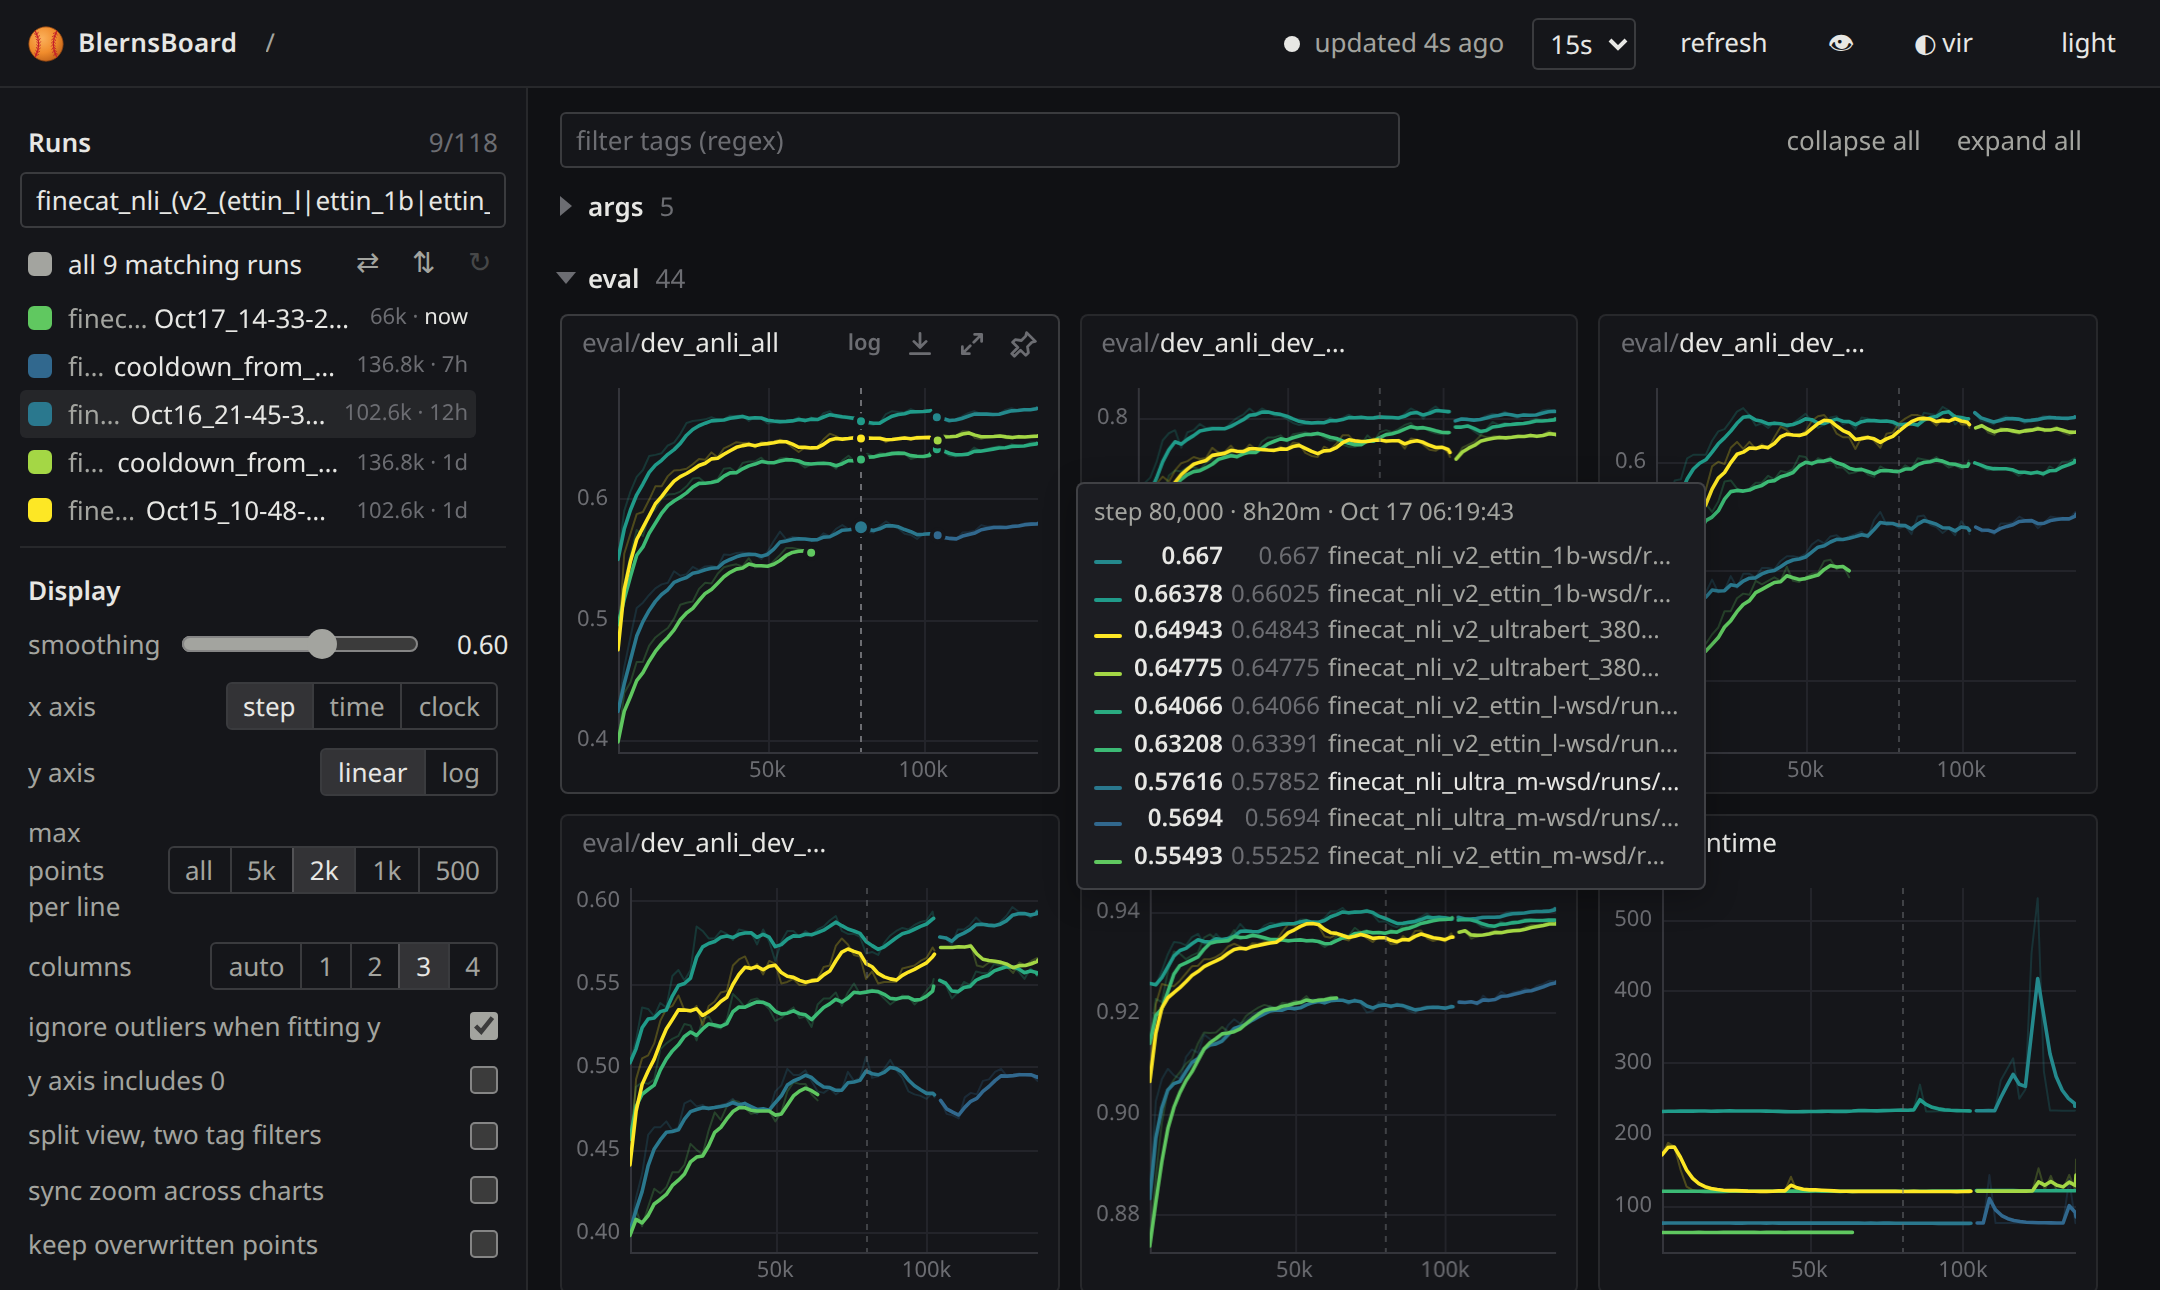
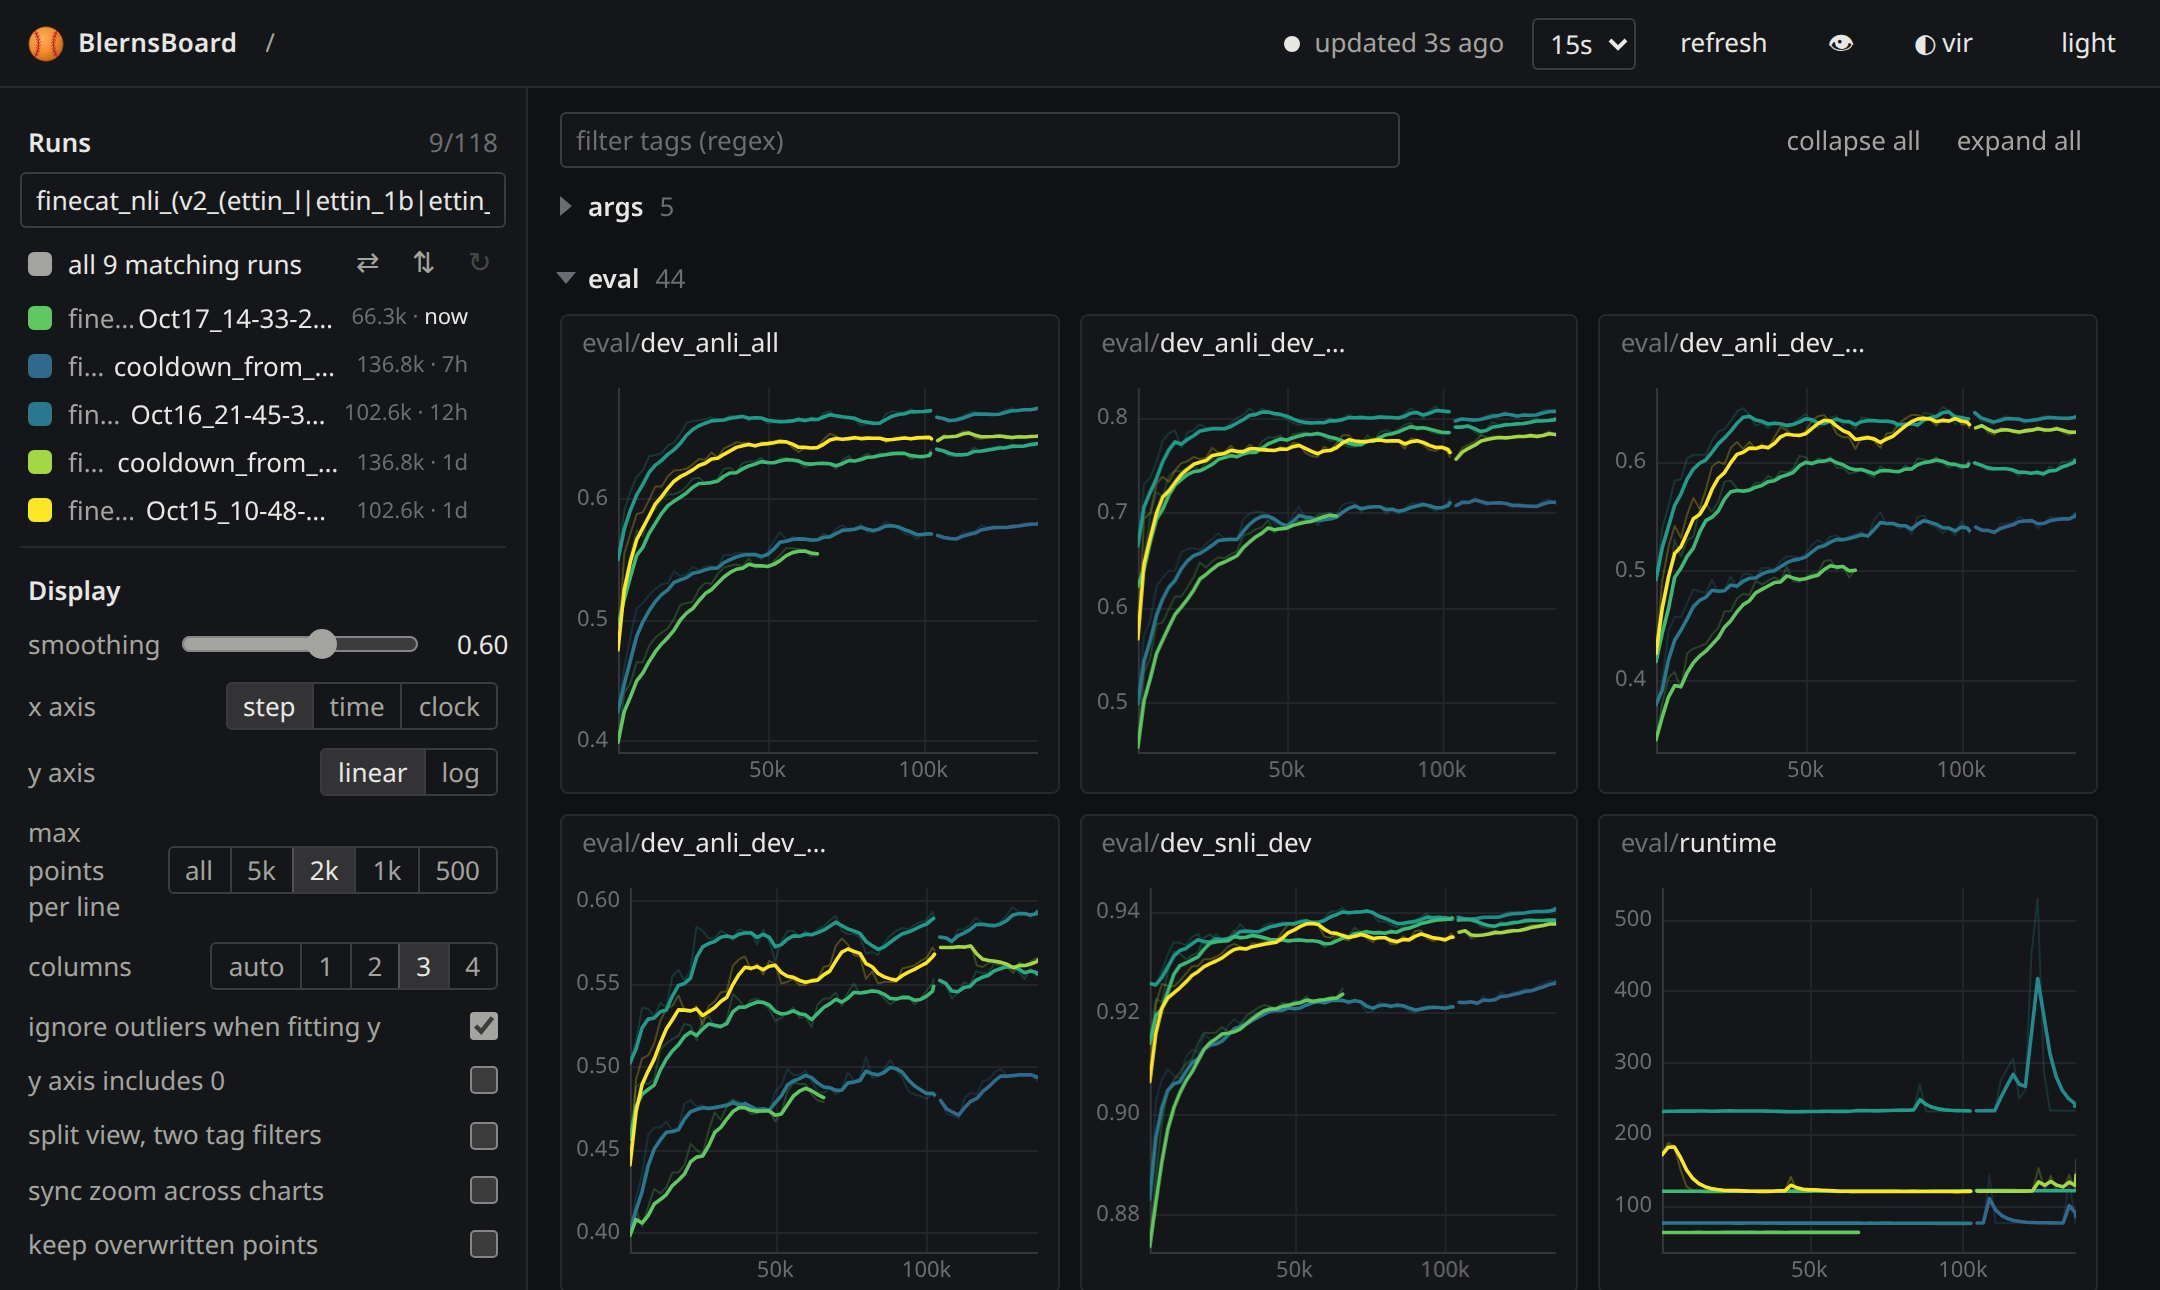
README screenshot: no hover readout

diff --git a/README.md b/README.md
@@ -2,7 +2,7 @@
 
 A single HTML file that reads TensorBoard event logs
 
-![BlernsBoard in dark mode: the eval group open for five NLI training runs and their cooldowns, coloured along the viridis ramp, other groups collapsed, with the readout beside a chart](docs/screenshot.png)
+![BlernsBoard in dark mode: the eval group open for five NLI training runs and their cooldowns, coloured along the viridis ramp, other groups collapsed](docs/screenshot.png)
 
 ## Install
 
